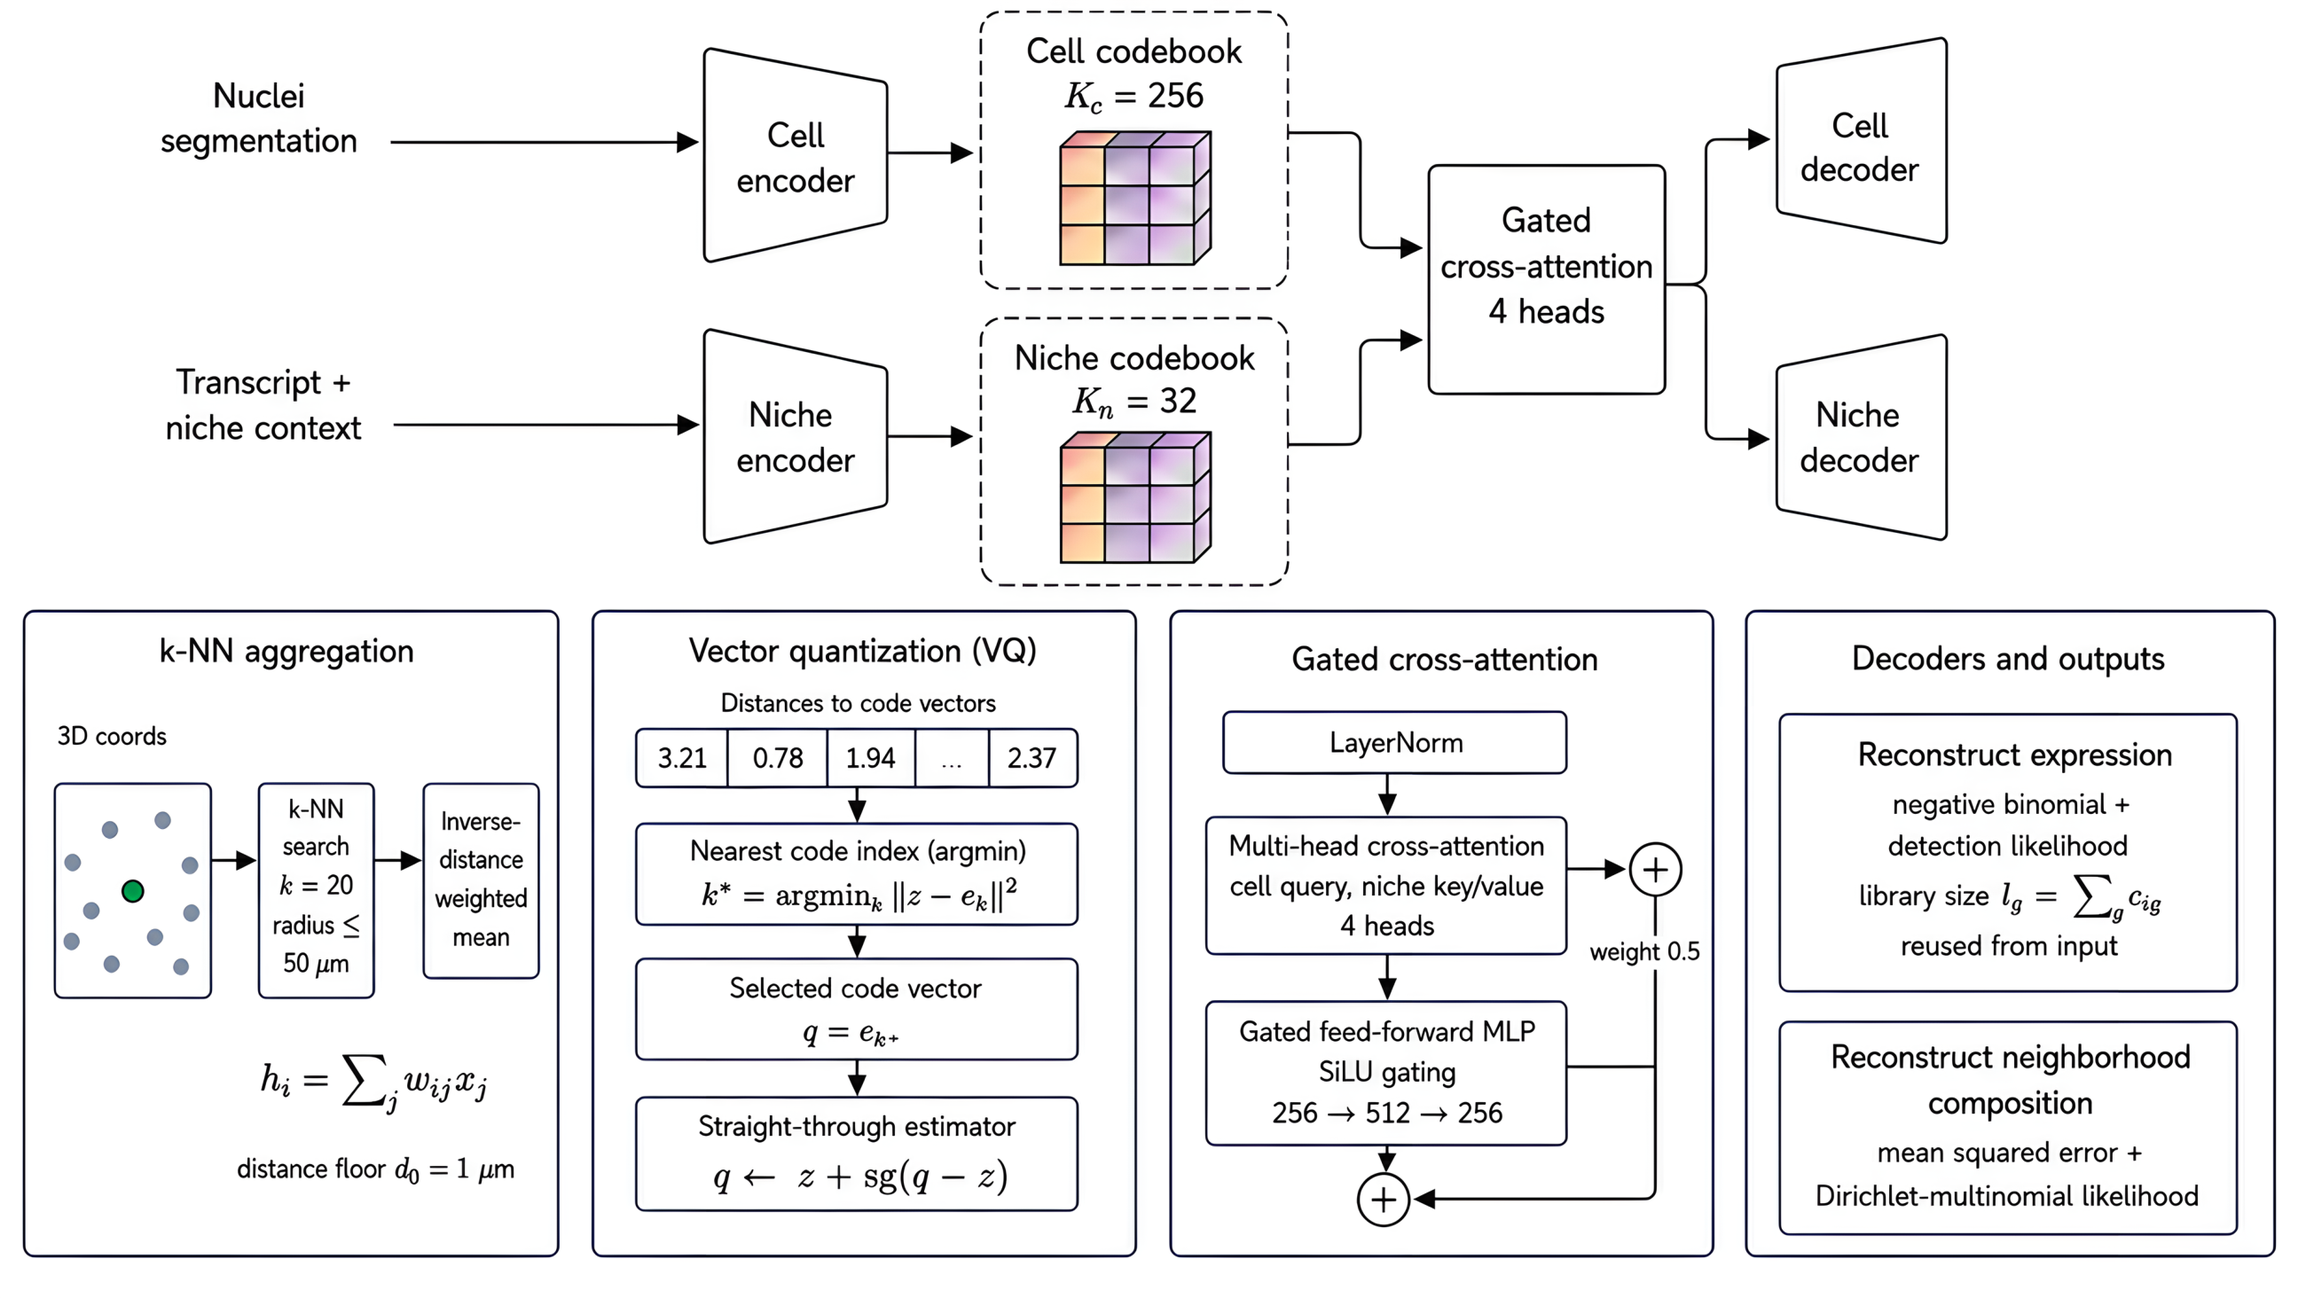
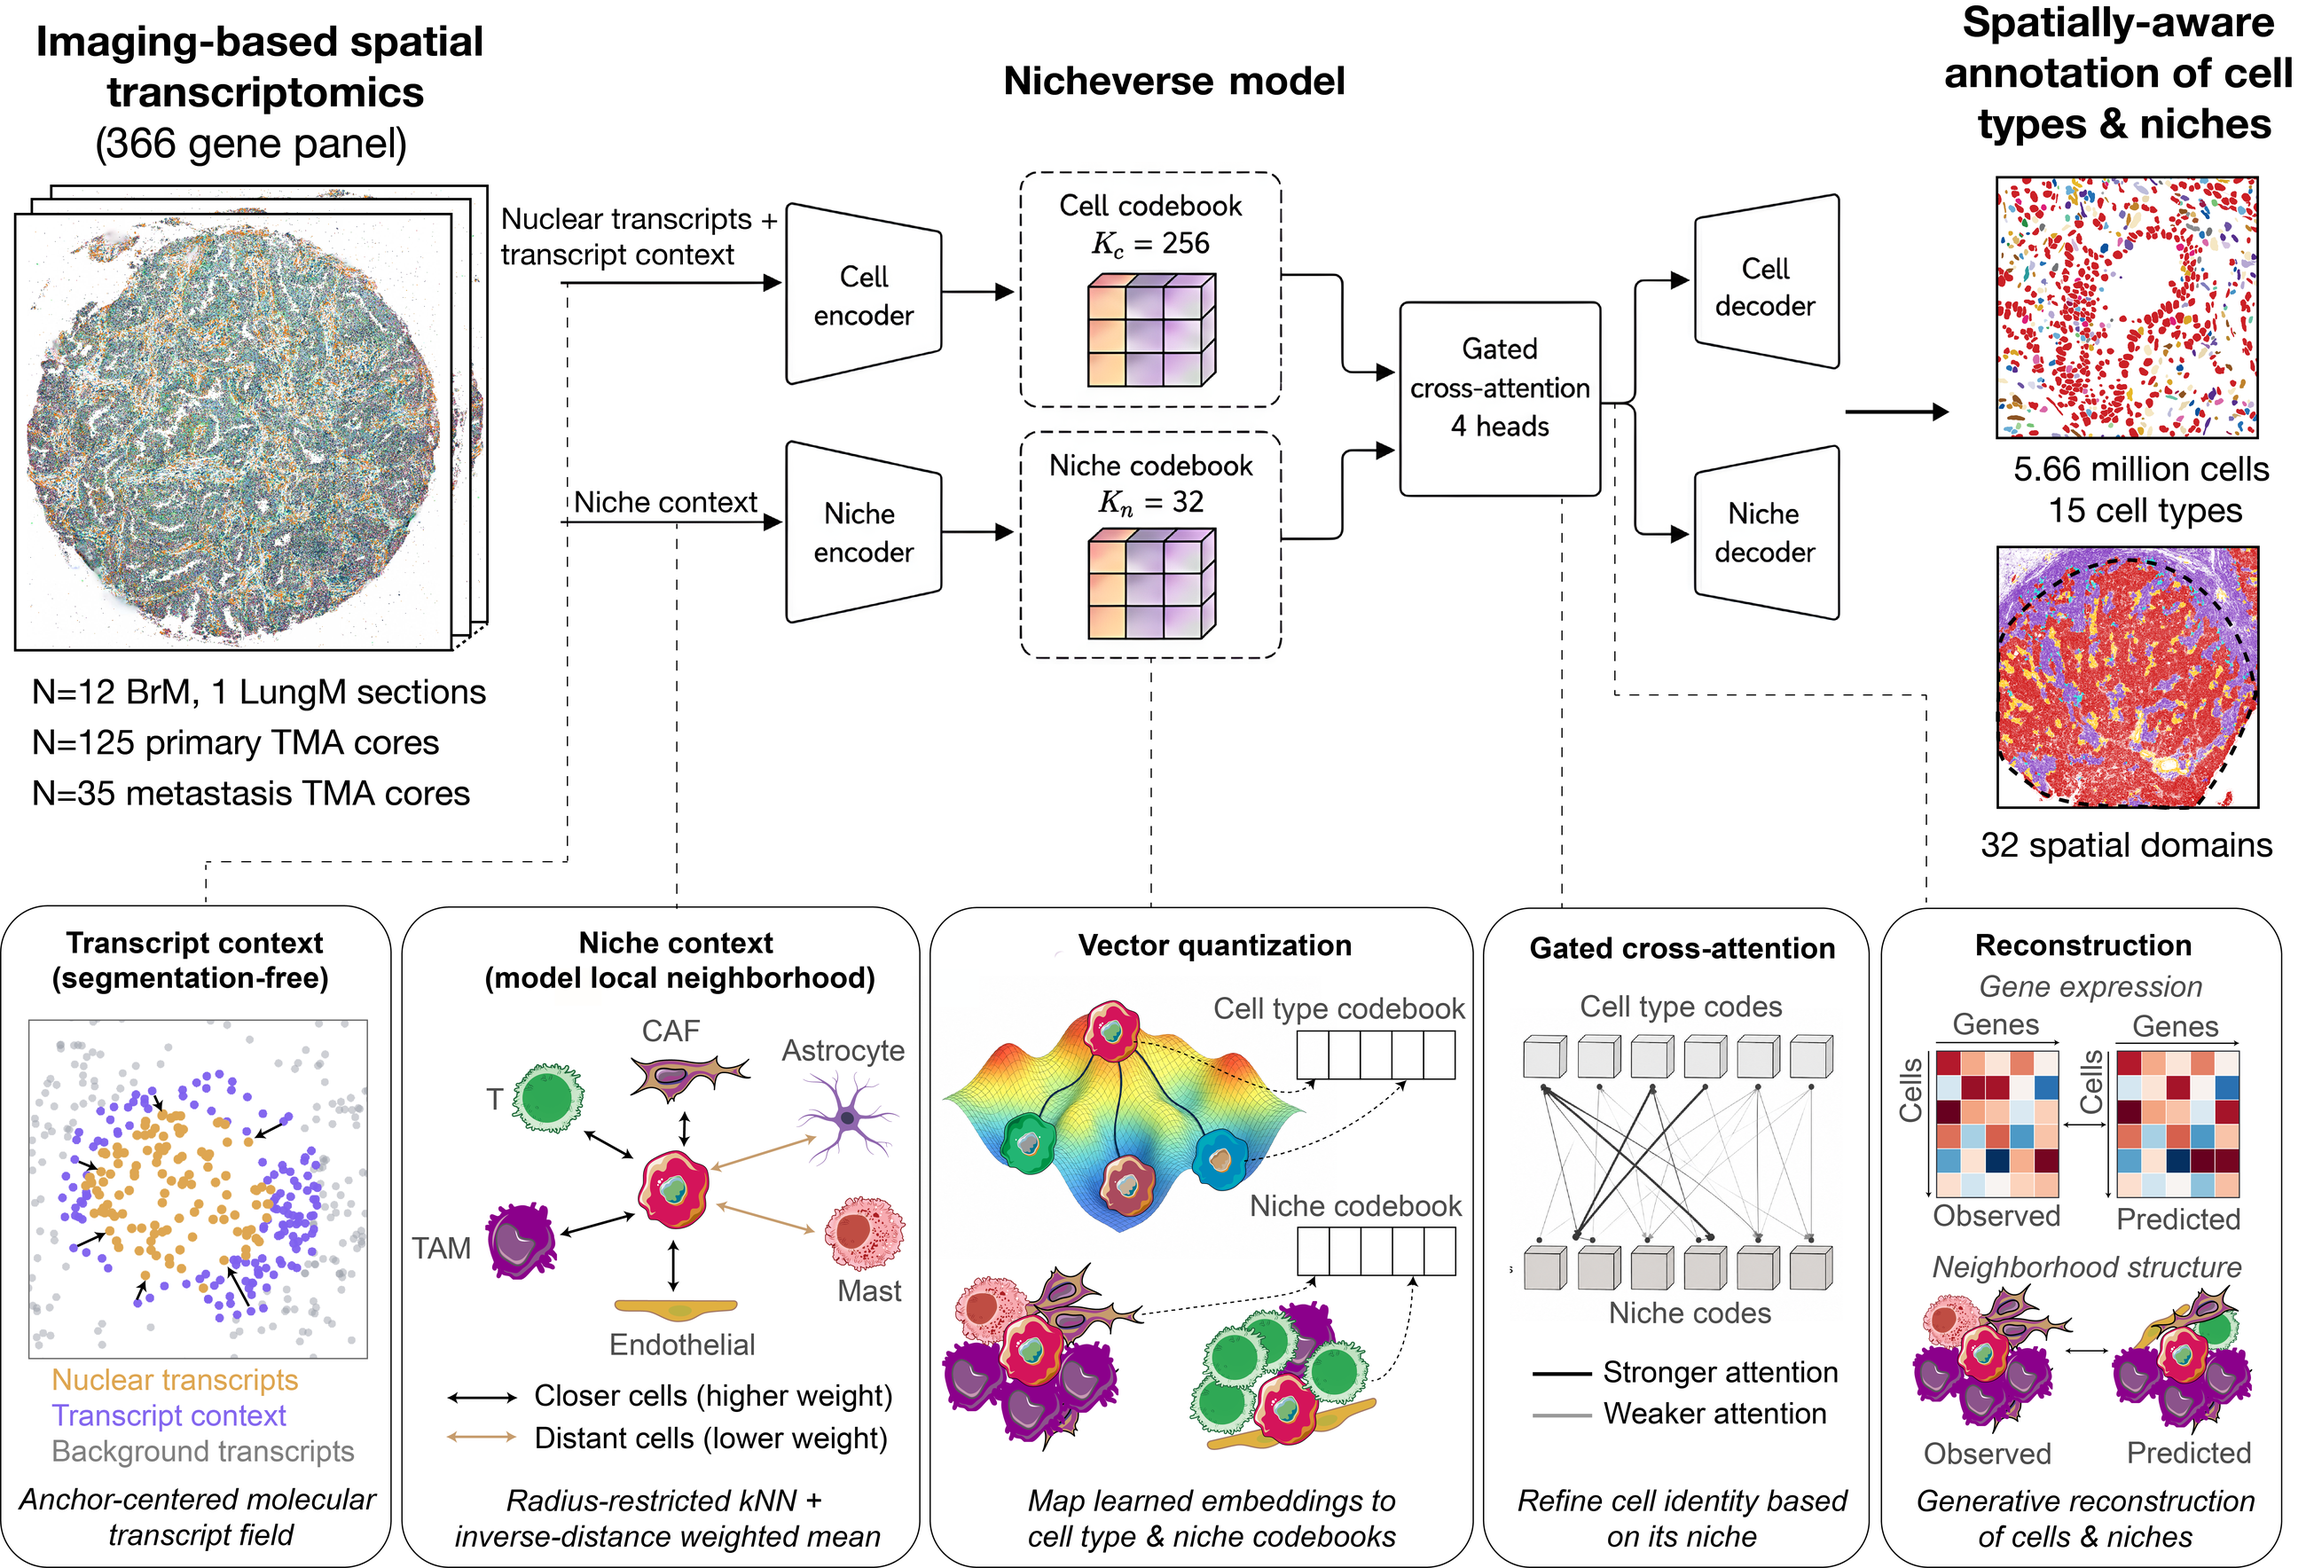
README: architecture figure from the updated Nicheverse architecture diagram

diff --git a/README.md b/README.md
@@ -3,7 +3,7 @@
 [![Docs](https://img.shields.io/badge/docs-nicheverse.org-f59e0b)](https://nicheverse.org)
 
 
-<p align="center"><img src="assets/architecture.png" alt="Nicheverse architecture: a cell encoder and a niche encoder each quantize to their own codebook (256 cell codes, 32 niche codes), a gated cross-attention block lets the cell read its niche, and two decoders reconstruct expression and neighborhood composition" width="960"></p>
+<p align="center"><img src="assets/architecture.png" alt="Nicheverse architecture: nuclear transcripts plus segmentation free transcript context feed a cell encoder and a cell codebook of 256 codes, radius restricted inverse distance weighted niche context feeds a niche encoder and a niche codebook of 32 codes, a gated cross attention block with 4 heads refines each cell by its niche, and cell and niche decoders reconstruct expression and neighborhood structure, giving spatially aware annotation of cell types and niches" width="960"></p>
 
 Nicheverse is a hierarchical VQ-VAE that tokenizes imaging-based spatial transcriptomics into a discrete vocabulary of cell states and tissue niches. It trains on any cell-by-gene count matrix with spatial coordinates and runs on any imaging platform (Xenium, MERFISH, CosMx, seqFISH, and more). A cell encoder maps each cell to a **cell codebook** of transcriptional states, and a neighborhood encoder maps its surrounding tissue to a **niche codebook**. The two branches are coupled by a one-directional gated cross-attention block: the cell attends to its own niche before decoding, so spatial context can settle a borderline assignment, yet the cell code stays anchored to that cell's own transcripts and is never overridden by its neighbors. Because every cell is quantized against the same fixed codebook, the learned vocabulary is portable, the same code denotes the same state across cohorts, tissues, and platforms.
 
